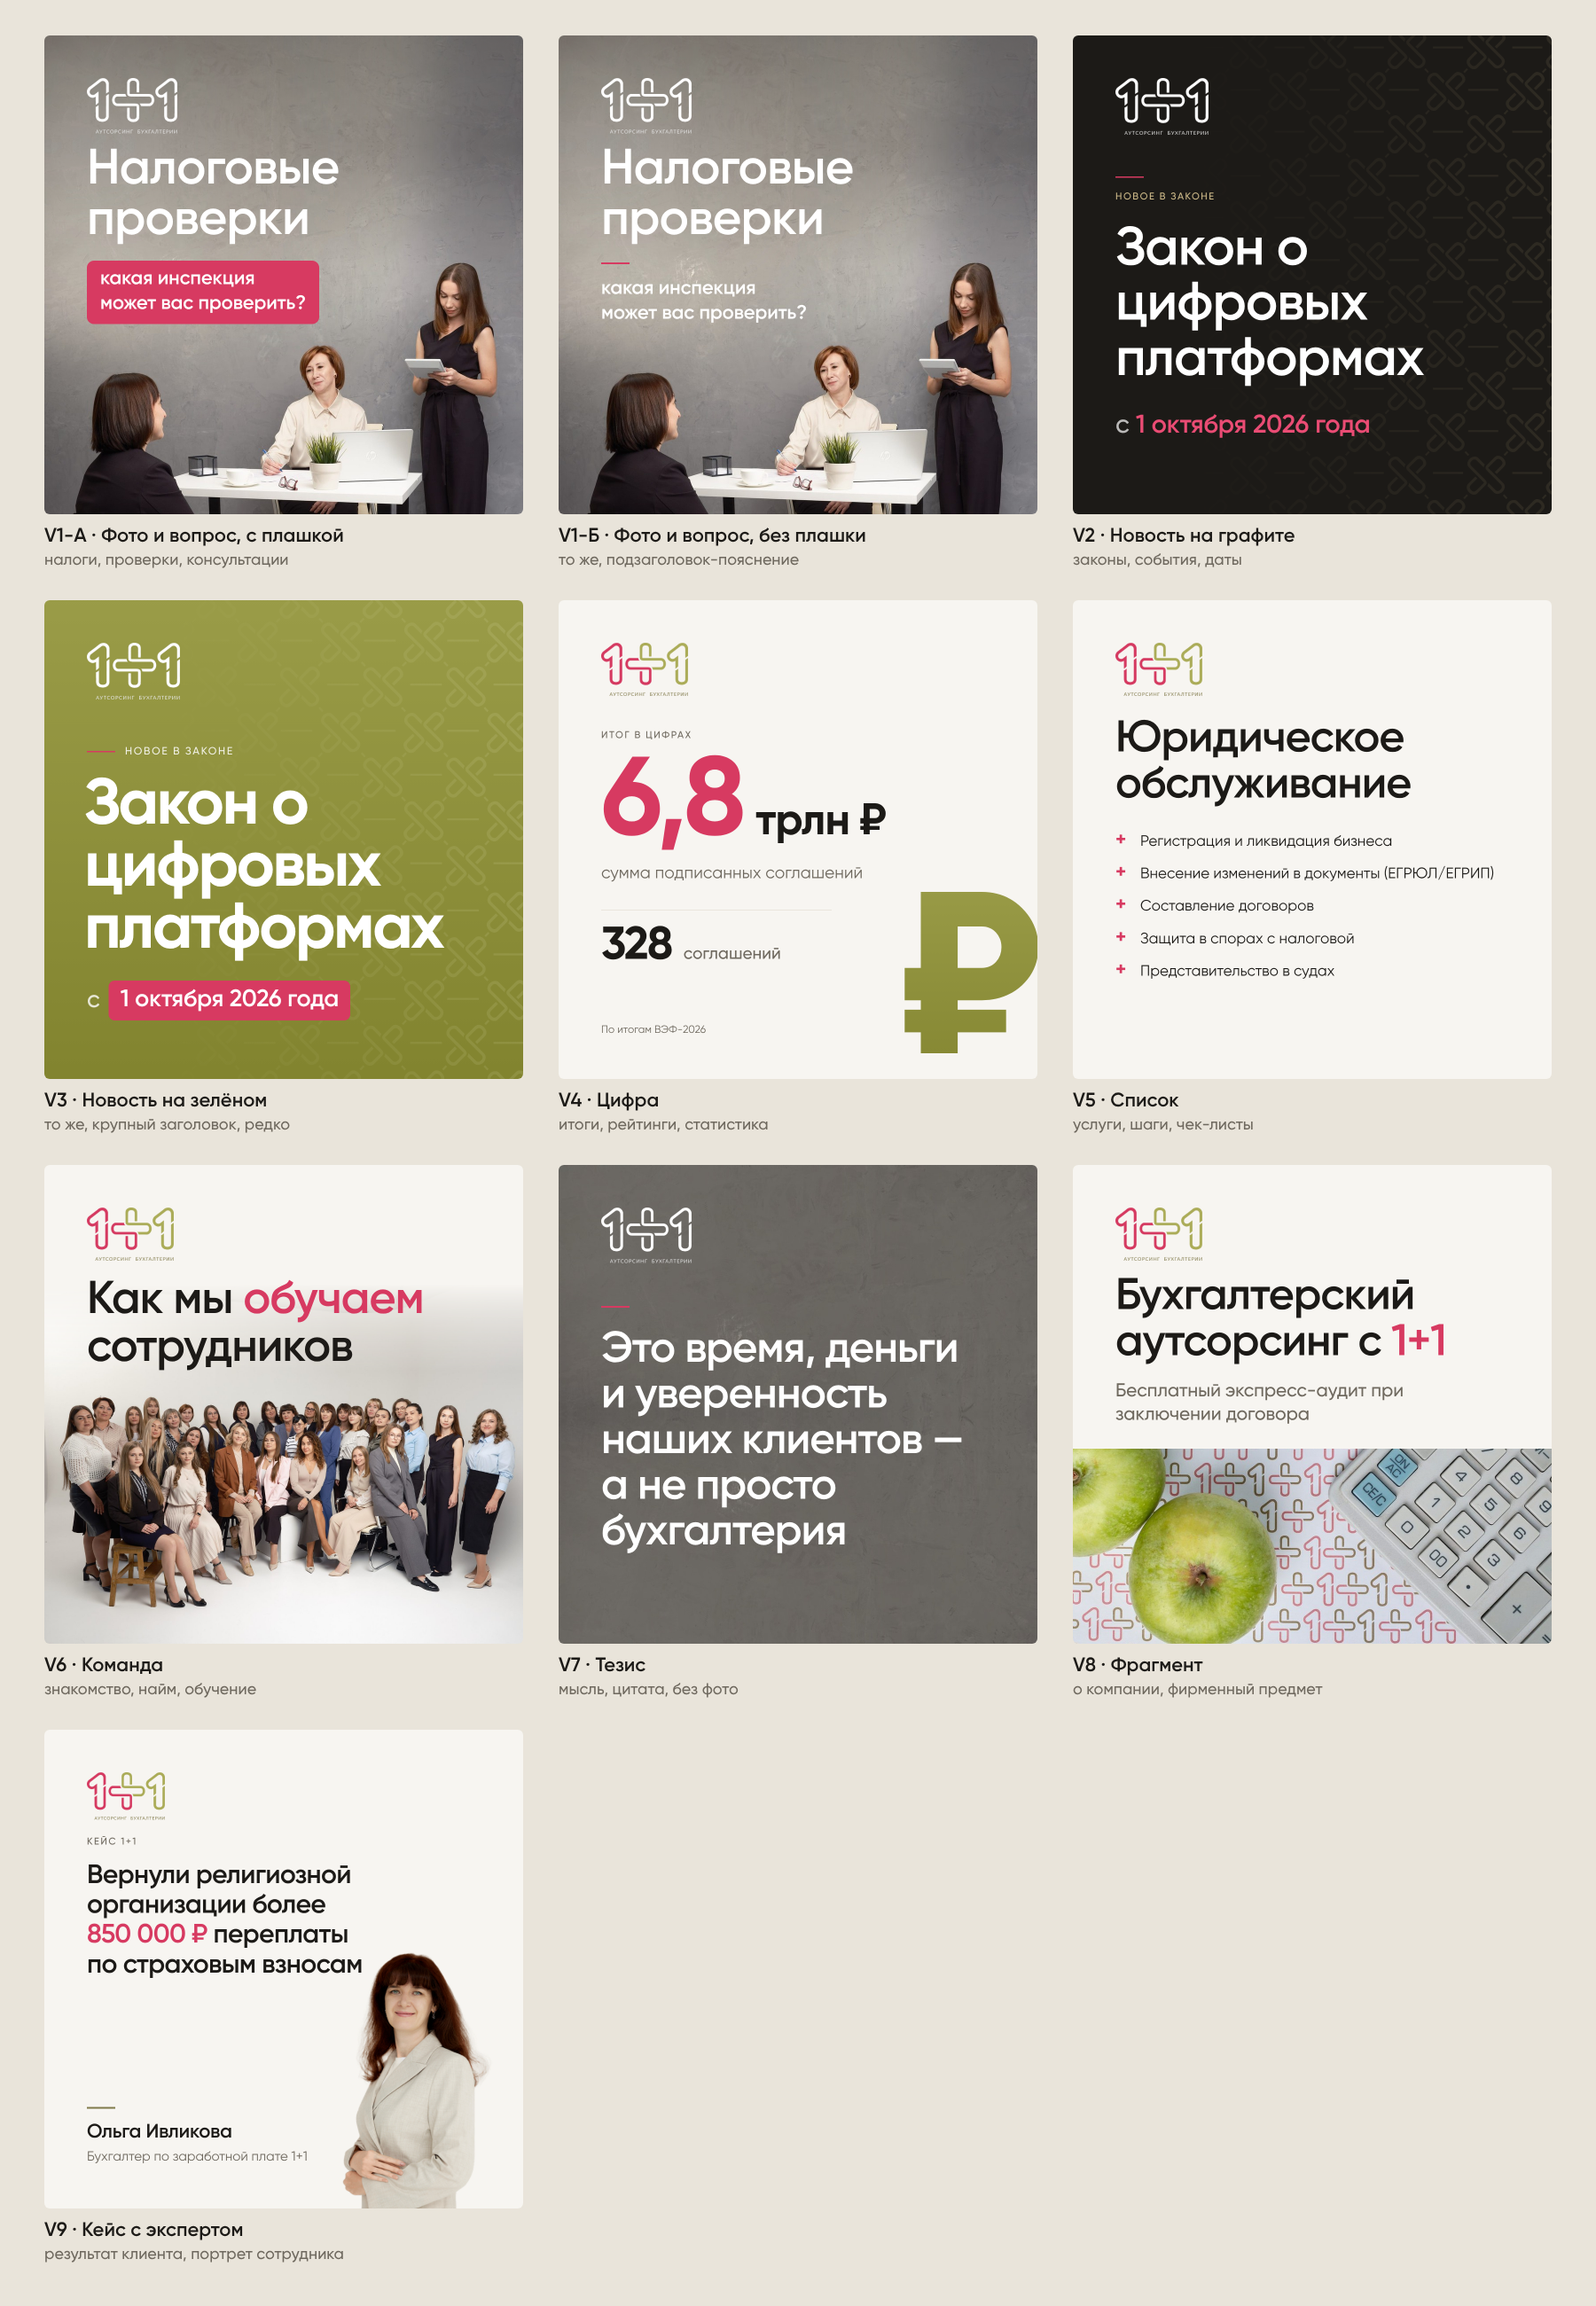
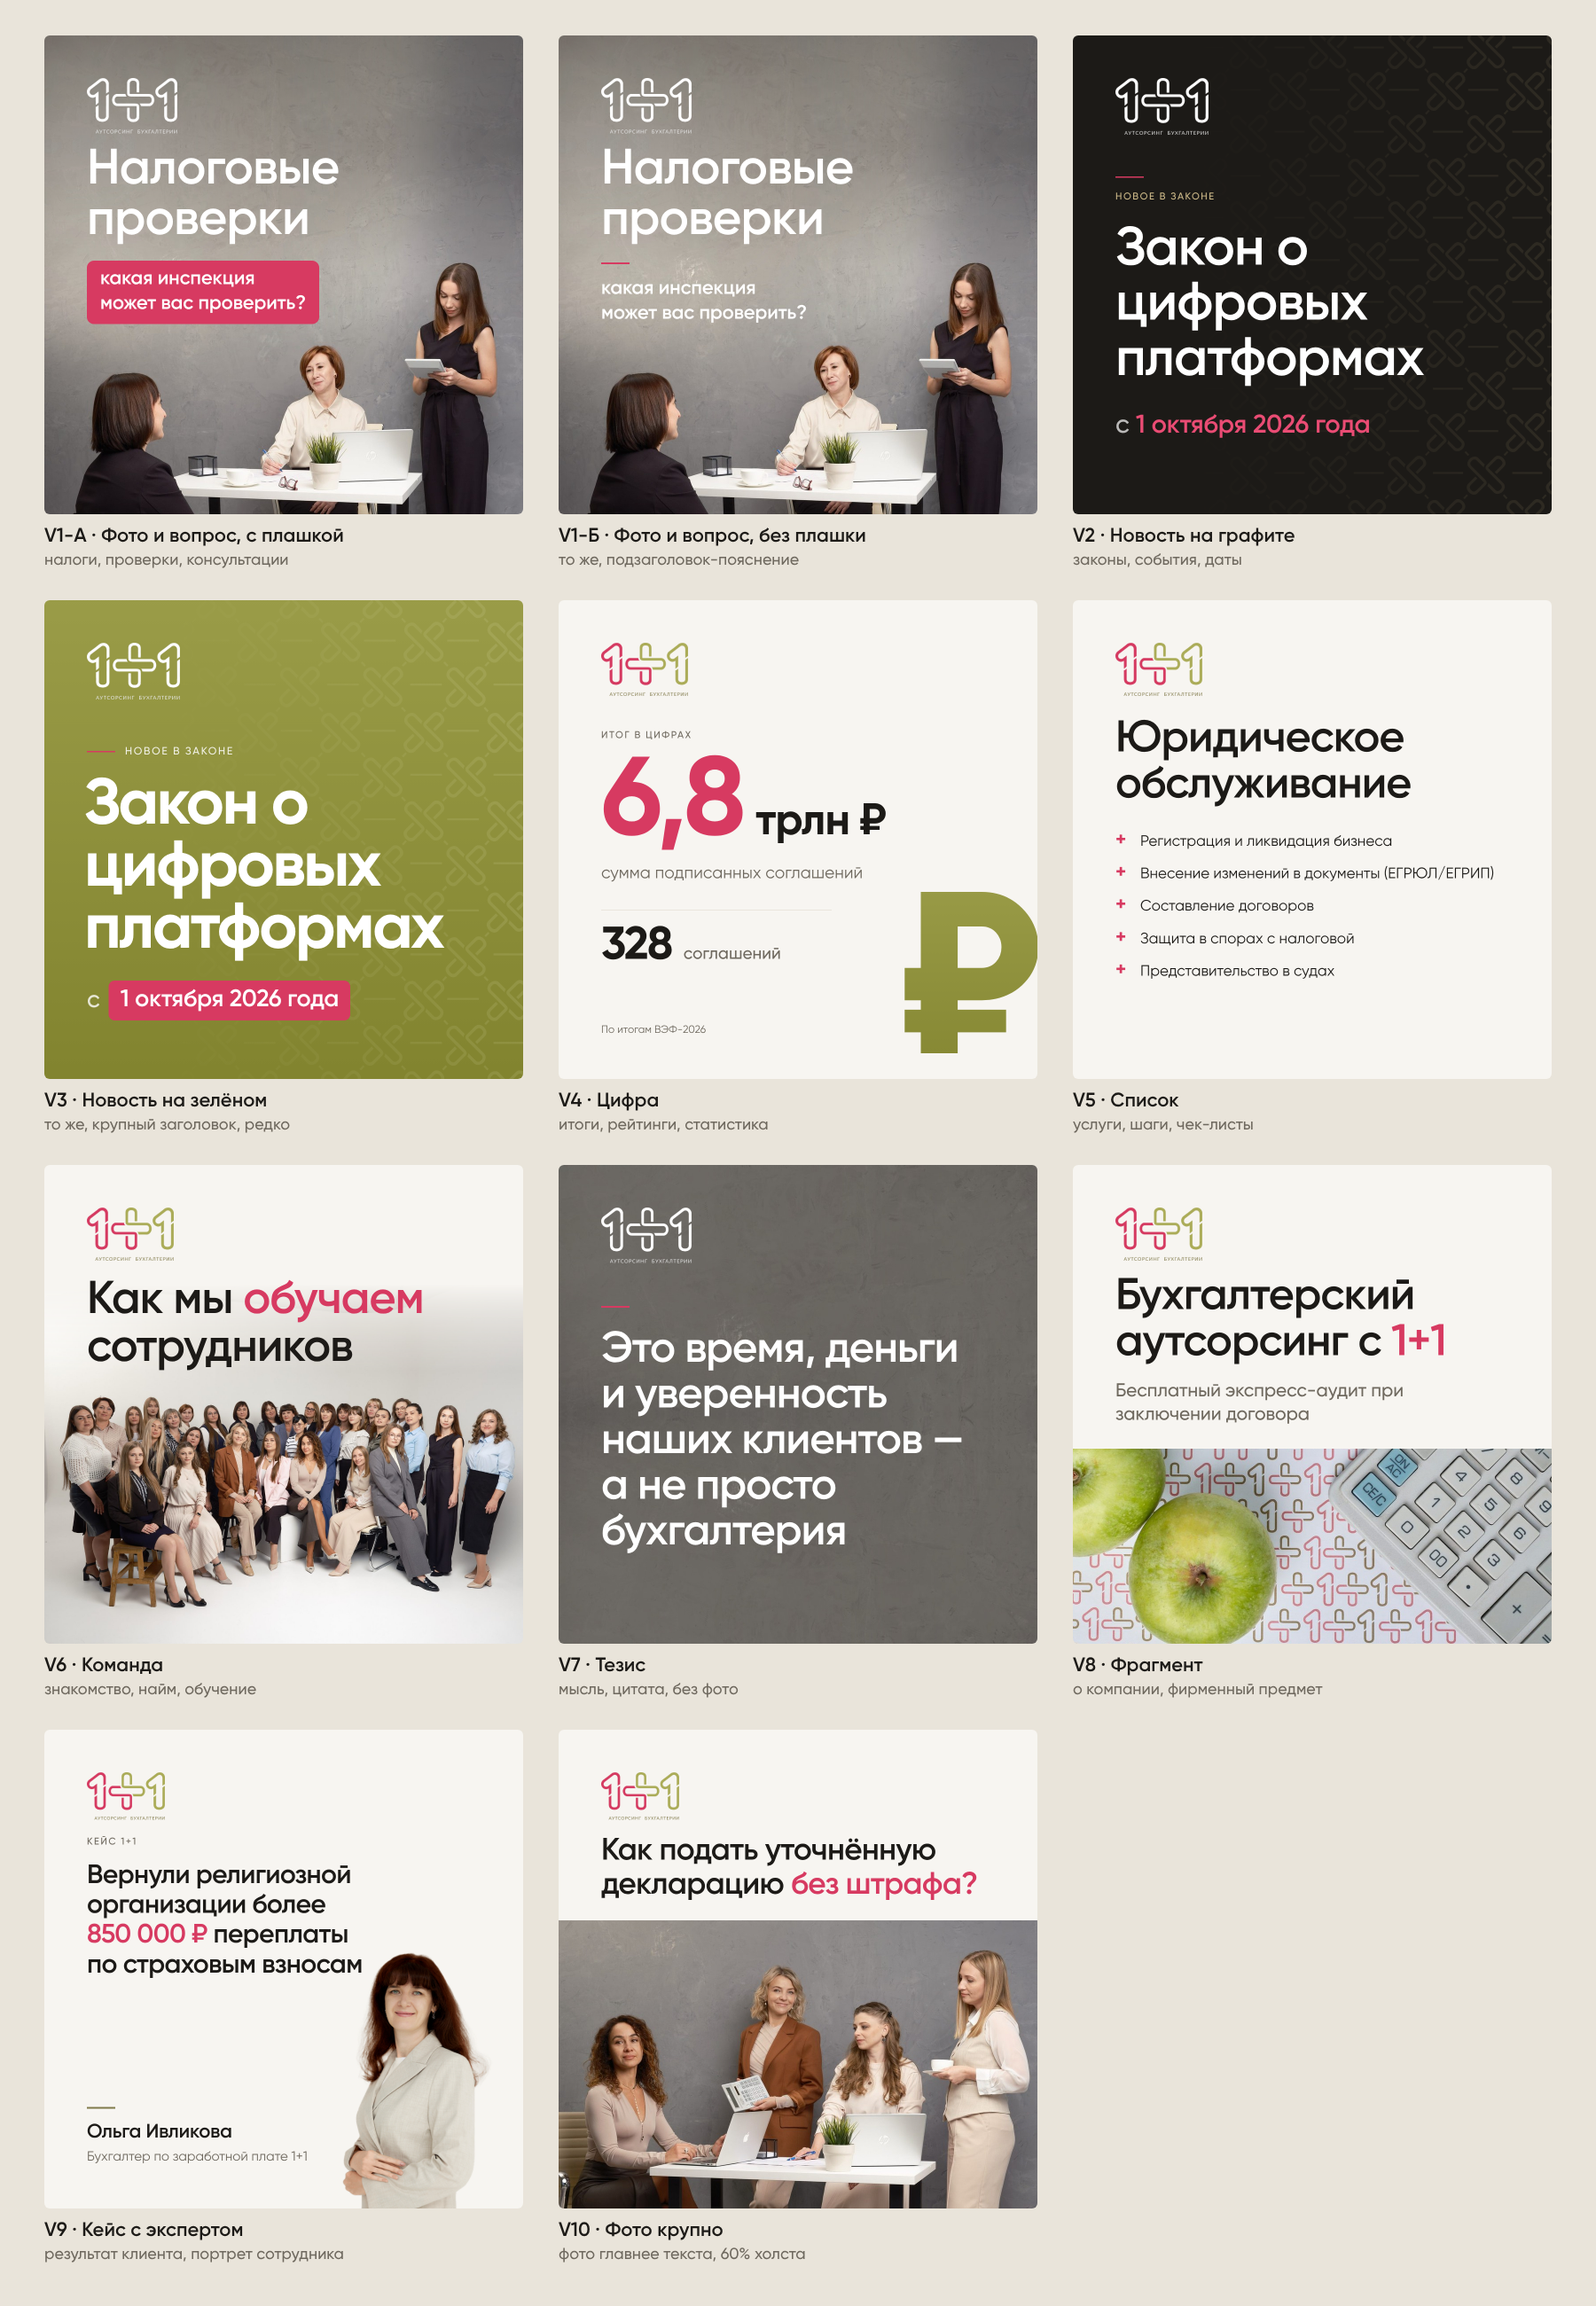
Add V10 photo-dominant layout to the catalog
Claude-Session: https://claude.ai/code/session_01VZ7Hrkur6jxoGp5f6QSiLJ

Changed region(s): [[0.3422, 0.7474, 0.6533, 0.9965]]

diff --git a/specimens/v10-photo-large.html b/specimens/v10-photo-large.html
@@ -1,0 +1,15 @@
+<!doctype html><html lang="ru"><head><meta charset="utf-8"><title>Фото крупно — V10</title>
+<link rel="stylesheet" href="base.css">
+<style>
+.canvas{background:var(--paper)}
+.logo{width:176px}
+.photo{position:absolute;left:0;bottom:0;width:1080px;height:650px;background:url(img/photo-large.jpg) center/cover}
+.text{position:absolute;left:96px;right:96px;top:236px;color:var(--graphite)}
+h1{font-weight:600;font-size:70px;line-height:1.1;letter-spacing:-.02em}
+h1 em{font-style:normal;color:var(--crimson)}
+</style></head><body>
+<div class="canvas">
+  <img class="logo" src="../assets/logo-full.png" alt="">
+  <div class="text"><h1>Как подать уточнённую<br>декларацию <em>без штрафа?</em></h1></div>
+  <div class="photo"></div>
+</div></body></html>

diff --git a/specimens/catalog.html b/specimens/catalog.html
@@ -20,4 +20,5 @@ figcaption span{display:block;margin-top:2px;font-size:18px;font-weight:500;colo
 <figure><img src="v7-thesis.png"><figcaption>V7 · Тезис<span>мысль, цитата, без фото</span></figcaption></figure>
 <figure><img src="v8-fragment.png"><figcaption>V8 · Фрагмент<span>о компании, фирменный предмет</span></figcaption></figure>
 <figure><img src="v9-case.png"><figcaption>V9 · Кейс с экспертом<span>результат клиента, портрет сотрудника</span></figcaption></figure>
+<figure><img src="v10-photo-large.png"><figcaption>V10 · Фото крупно<span>фото главнее текста, 60% холста</span></figcaption></figure>
 </div></body></html>

diff --git a/docs/layout-catalog.md b/docs/layout-catalog.md
@@ -30,6 +30,7 @@
 | мысль, цитата, тезис без фото | **V7** | `v7-thesis.png` |
 | о компании, фирменный предмет, предложение | **V8** | `v8-fragment.png` |
 | кейс клиента, эксперт с портретом | **V9** | `v9-case.png` |
+| тема, где важнее кадр, чем текст; короткий вопрос | **V10** | `v10-photo-large.png` |
 
 В ленте варианты чередуются: нельзя два V2/V3 подряд и два макета с зелёным фоном подряд.
 
@@ -117,6 +118,18 @@
 - **Лимит:** портрет не заходит под заголовок; между последней строкой и волосами не меньше 24 px. Исходник
   портрета не меньше 450×550 px, без увеличения больше чем в 1,1 раза.
 - **Фон:** `paper`.
+
+---
+
+## V10 · Фото крупно
+
+- **Когда:** сюжет решает сам кадр, текст короткий (вопрос, тема), 1–2 строки.
+- **Герой:** фото на нижние 60% холста (650 px), на всю ширину, без радиуса.
+- **Слоты:** заголовок (до 50 знаков, две строки, 70 px SemiBold графитовый), слово-акцент малиновое.
+- **Фото:** группа из `concrete-*` или `plaster-*`, головы целиком, верхний край кадра не режет волосы.
+  Подбирается кроп, а не масштаб: люди крупно.
+- **Логотип:** цветной, 176 px.
+- **Фон над фото:** `paper`. Текст стоит на нём, на фото текста нет.
 
 ---
 

diff --git a/docs/readme-v2.md b/docs/readme-v2.md
@@ -205,7 +205,7 @@ Gilroy — единственный шрифт. Файлы Light–Extrabold в 
 
 ## 9. Каталог макетов
 
-Утверждено девять вариантов (V1 в двух формах). Задача выбирается **по каталогу**: Claude Design
+Десять вариантов (V1 в двух формах), на утверждении. Задача выбирается **по каталогу**: Claude Design
 определяет тип контента, берёт один вариант, подставляет текст и фото. Подробные слоты, лимиты и
 эталоны — `docs/layout-catalog.md`, обзор — `specimens/catalog.png`.
 
@@ -219,6 +219,7 @@ Gilroy — единственный шрифт. Файлы Light–Extrabold в 
 | мысль, цитата, тезис без фото | **V7** |
 | о компании, предложение, фирменный предмет | **V8** |
 | кейс клиента, эксперт с портретом | **V9** |
+| сюжет решает кадр, короткий вопрос | **V10** |
 
 **Порядок выбора:** (1) тип контента, (2) один вариант, (3) текст и фото из указанной серии, (4) если
 текст длиннее лимита варианта, взять вариант с большей ёмкостью (V5, V7, V9), а не сокращать текст,

diff --git a/specimens/README.md b/specimens/README.md
@@ -1,6 +1,6 @@
 # Каталог макетов v2
 
-Девять утверждённых вариантов, 1080×1080, описание слотов и лимитов — `docs/layout-catalog.md`.
+Десять вариантов на утверждении, 1080×1080, описание слотов и лимитов — `docs/layout-catalog.md`.
 Рендер: `./render.sh <имя без расширения>` (Chromium). Gilroy берётся из `assets/fonts/` (в git не хранится
 из-за лицензии, лежит на Drive в папке `fonts`). Обзор: `catalog.png` (собирается из `catalog.html`).
 
@@ -16,3 +16,4 @@
 | `v7-thesis` | V7, тезис | белый текст на тёмной бетонной фактуре |
 | `v8-fragment` | V8, фрагмент | полоса `color-0677` снизу |
 | `v9-case` | V9, кейс с экспертом | портрет-вырезка справа внизу |
+| `v10-photo-large` | V10, фото крупно | кадр `concrete-0283` на 60% холста, текст сверху |
